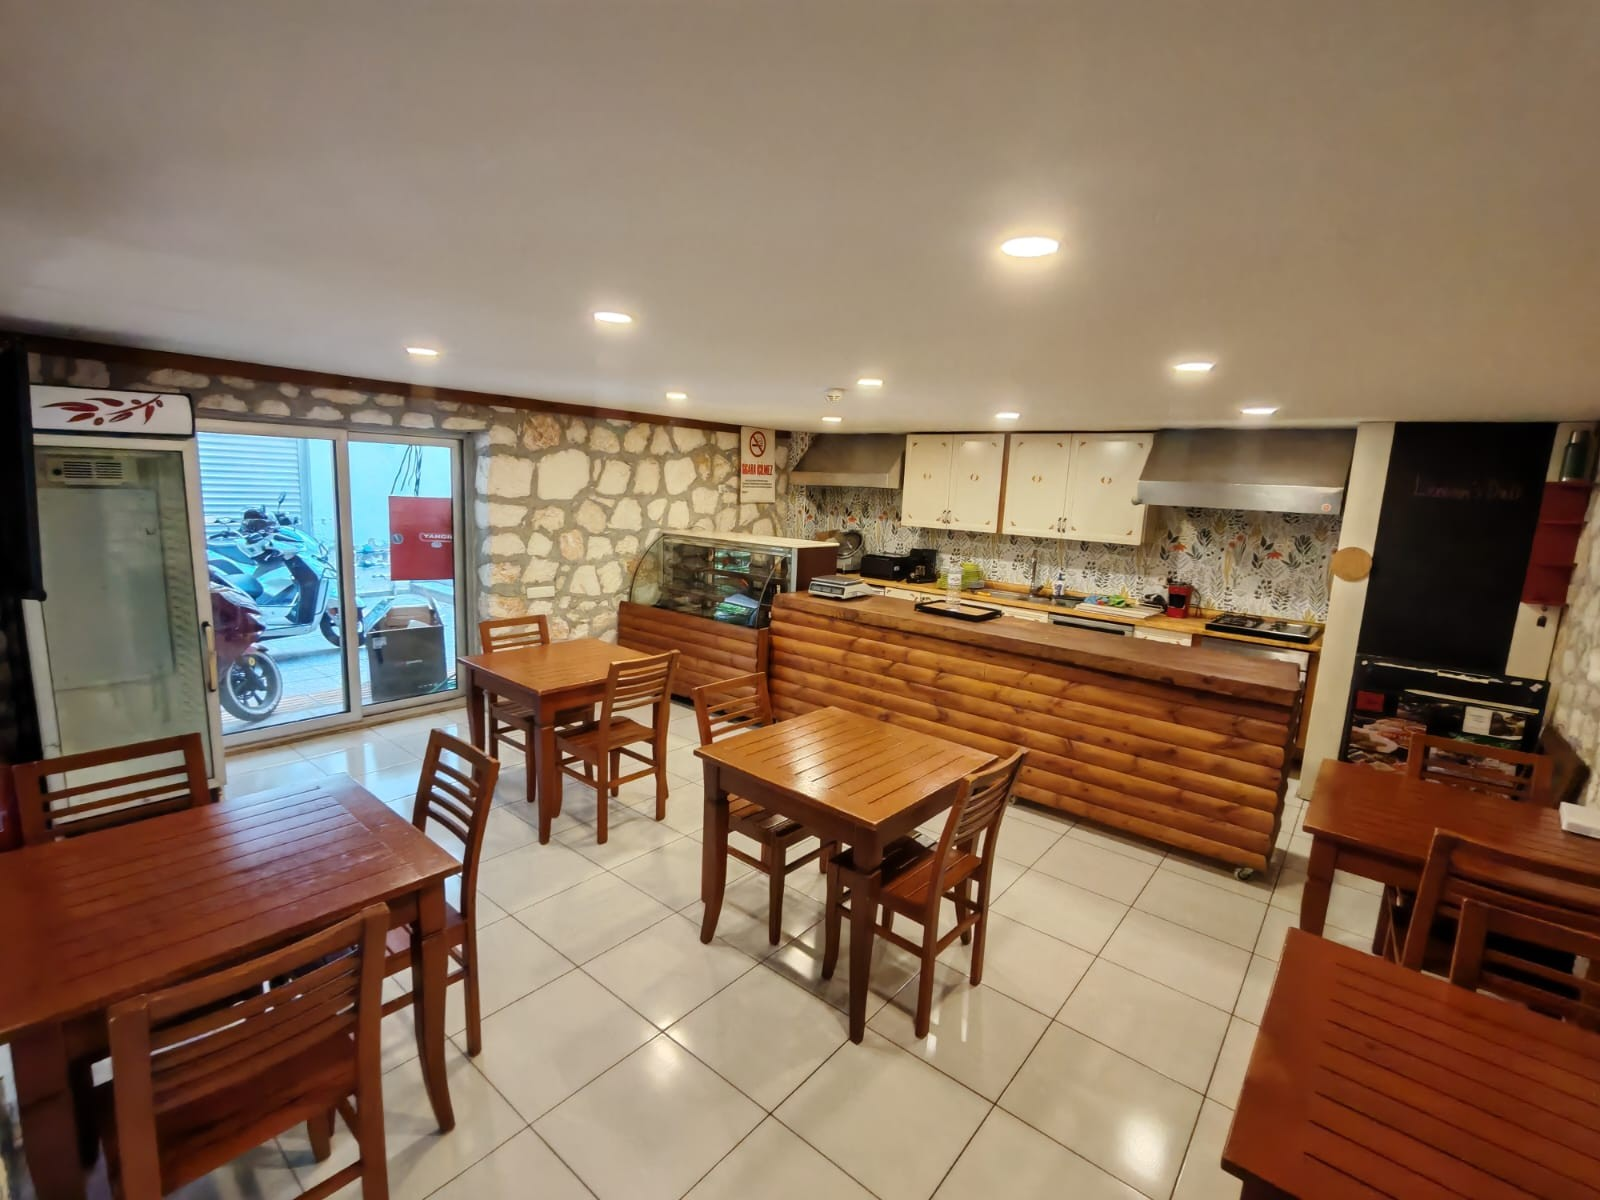
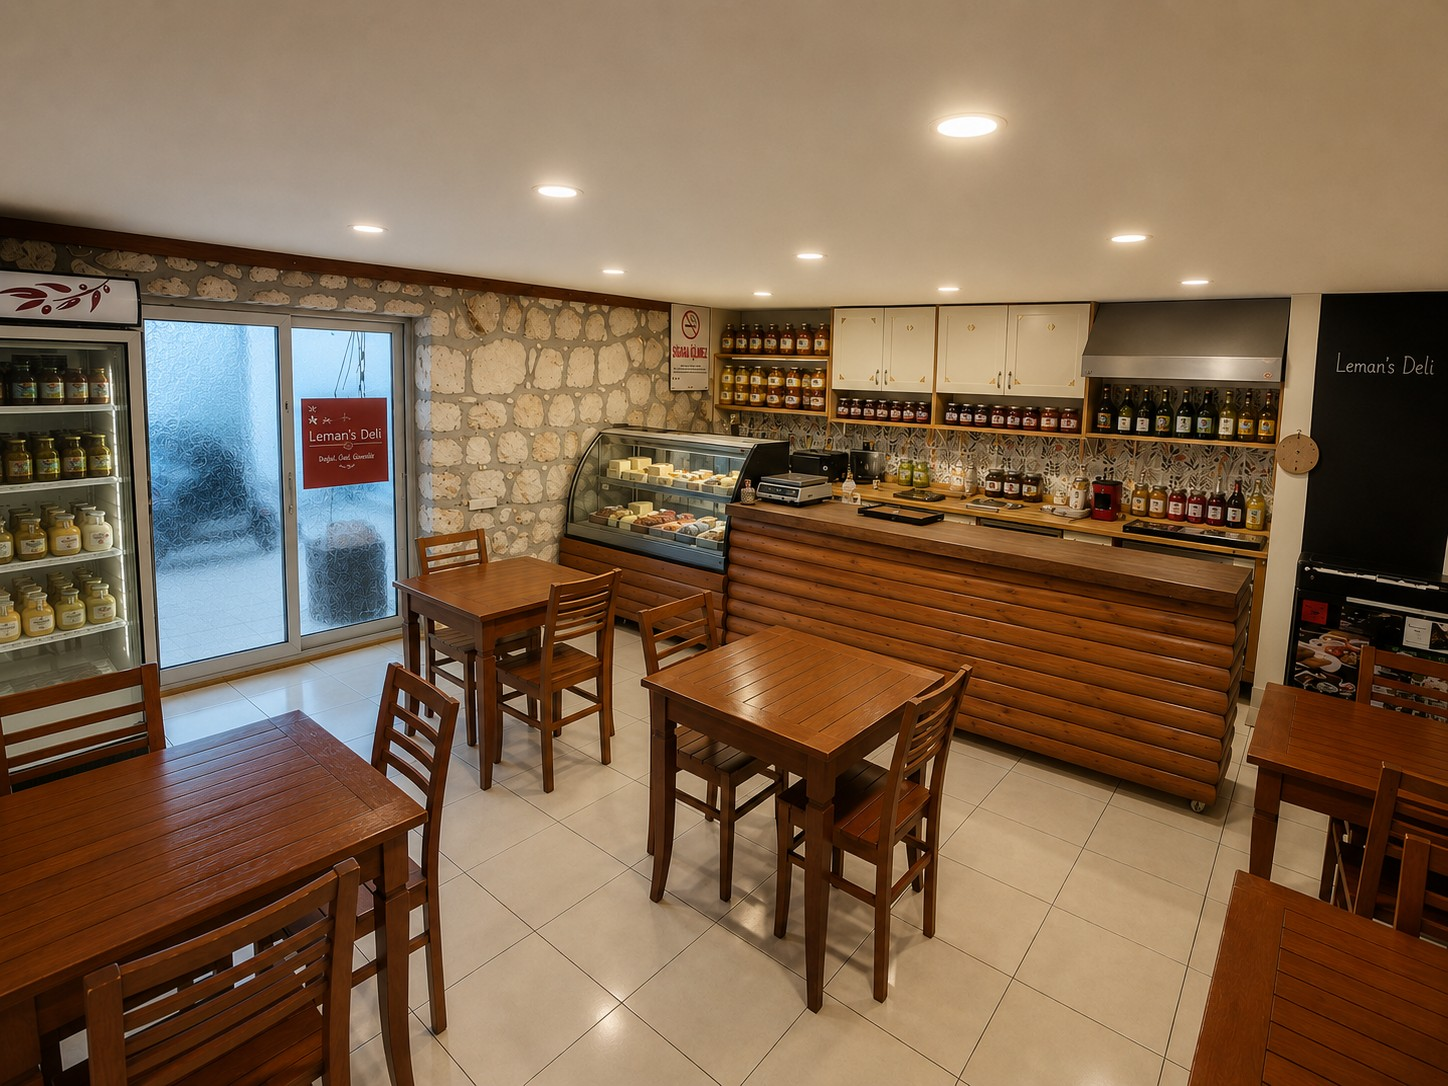
Update website images and content

diff --git a/app/page.tsx b/app/page.tsx
@@ -315,7 +315,7 @@ const selections = [
       title: text.sandwichTitle,
       description: text.sandwichText,
       note: text.sandwichNote,
-      image: "/gallery-4.jpg",
+      image: "sandwich.jpg",
       imageAlt: text.sandwichTitle,
       reverse: true,
     },